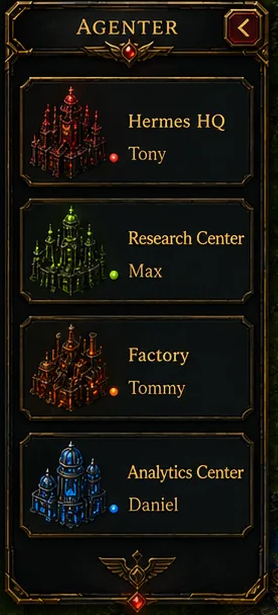
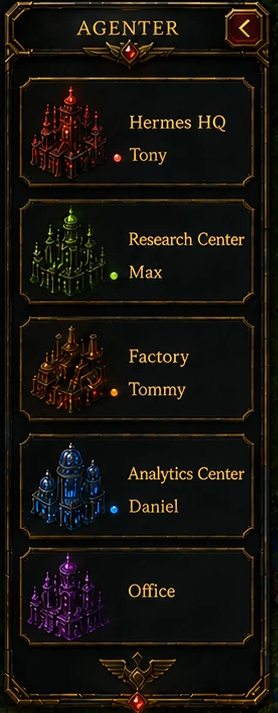
Uppdatera agent-panelen med Office (5 agenter)
Byter panelbilden mot den nya utklippt ur uppdaterad referens: nu med
Office som femte agent. Justerar toggle-hojden for den hogre panelen.

Claude-Session: https://claude.ai/code/session_015kz6un1MtHdJ6ZSN9t2GV3

diff --git a/css/style.css b/css/style.css
@@ -88,7 +88,7 @@ html, body {
   top: 0;
   left: 0;
   width: 100%;
-  height: 15%;
+  height: 13%;
   border: none;
   background: transparent;
   cursor: pointer;
